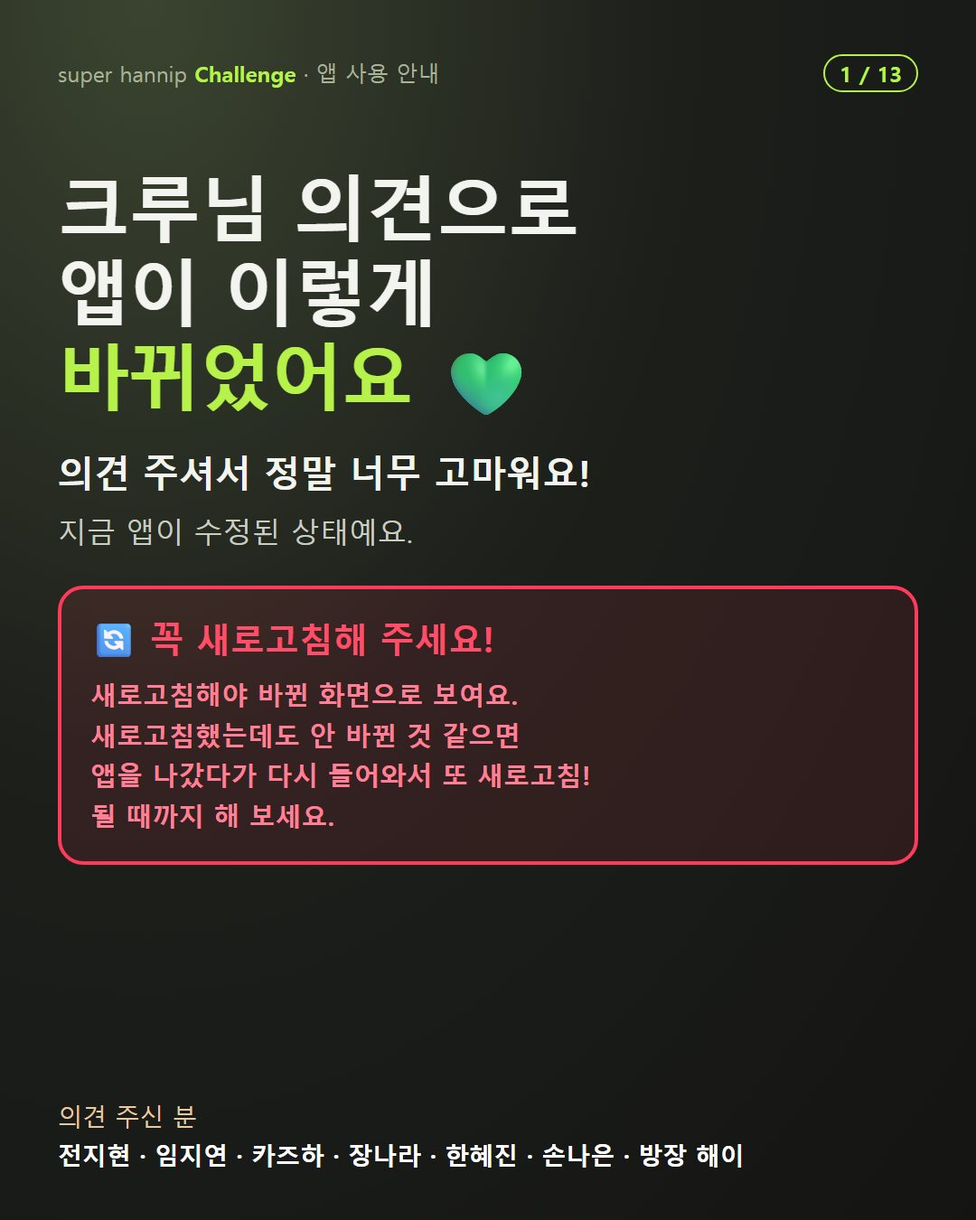
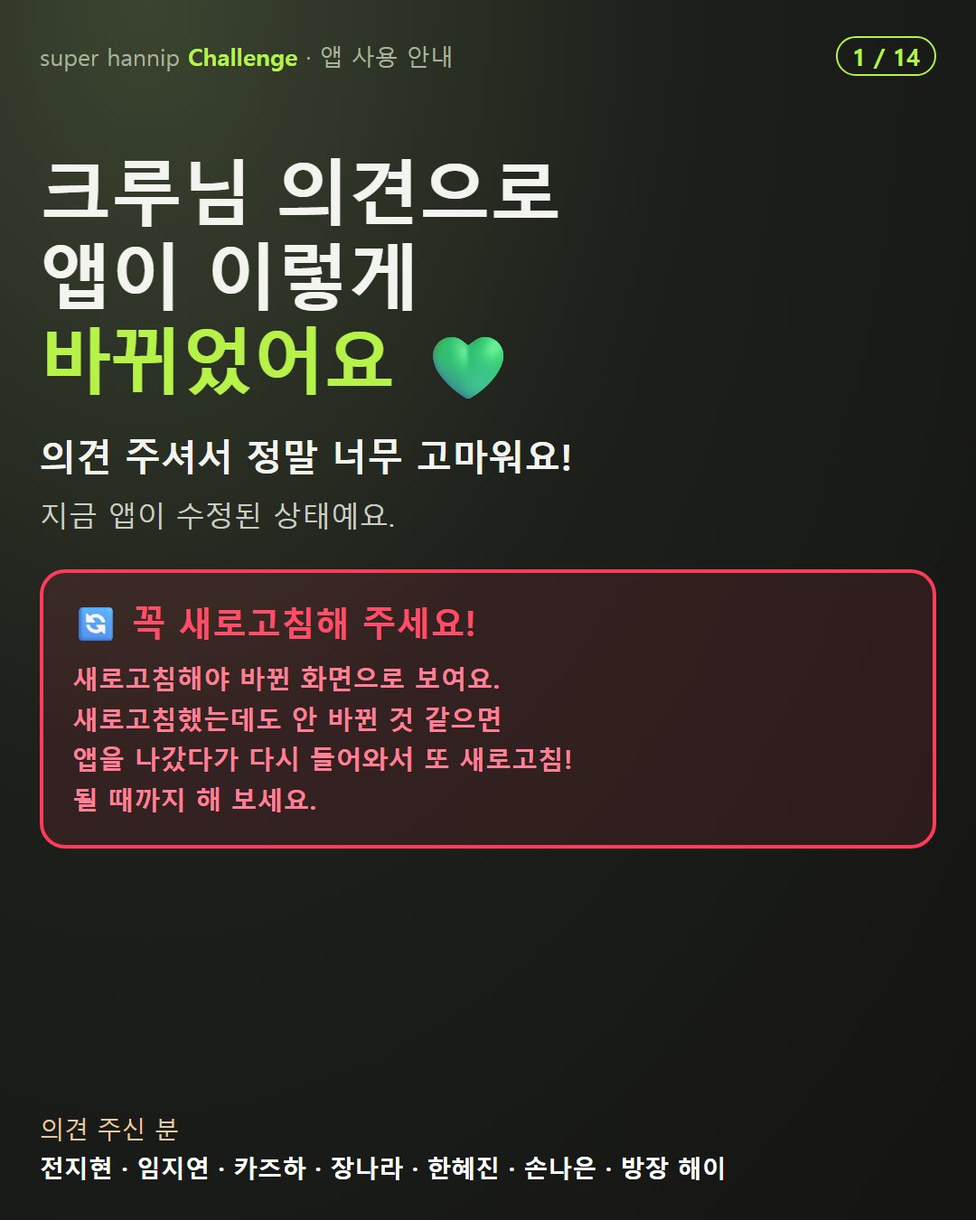
공지 사진 14장: 글씨 크게·여백 줄임, 크리스마스 테마 안내 추가

diff --git a/client/public/guide/index.html b/client/public/guide/index.html
@@ -60,10 +60,10 @@ video::cue{font-size:15px;background:rgba(0,0,0,.7)}
 .gal img{display:block;width:100%;border-radius:18px;margin-top:12px}
 </style></head><body><div class='wrap'><div class='page' id='p-home'><header><div class='ey'>SUPER HANNIP CHALLENGE</div><h1>앱 사용설명서</h1><p>보고 싶은 항목을 눌러 주세요.<br>다 보면 <b style='color:#b6f24a'>[← 뒤로 가기]</b>로 이 목록에 돌아와요.</p></header><div class='nu'><div class='nuh'>🆕 NEW UPDATE</div><div class='nubox'>
 <a class='bub' href='#v17_brag' data-id='v17_brag' data-date='2026-11-24'><span class='ring'><img src='poster/v17_brag.jpg' alt=''><i>🎬</i></span><span class='tag'>NEW</span><b>새 자랑하기</b><small>11/24</small></a>
-<a class='bub' href='#u1124' data-id='u1124' data-date='2026-11-24'><span class='ring'><img src='/notice/1124/01.jpg?v=3' alt=''><i>🖼</i></span><span class='tag'>NEW</span><b>크루 의견</b><small>11/24</small></a>
+<a class='bub' href='#u1124' data-id='u1124' data-date='2026-11-24'><span class='ring'><img src='/notice/1124/01.jpg?v=4' alt=''><i>🖼</i></span><span class='tag'>NEW</span><b>크루 의견</b><small>11/24</small></a>
 <a class='bub' href='#v15_meal_more' data-id='v15_meal_more' data-date='2026-11-23'><span class='ring'><img src='poster/v15_meal_more.jpg' alt=''><i>🎬</i></span><span class='tag'>NEW</span><b>식단 추가</b><small>11/23</small></a>
 <a class='bub' href='#v16_shop_more' data-id='v16_shop_more' data-date='2026-11-23'><span class='ring'><img src='poster/v16_shop_more.jpg' alt=''><i>🎬</i></span><span class='tag'>NEW</span><b>구매 추가</b><small>11/23</small></a>
-</div><p class='nuhint'>동그라미를 누르면 크게 볼 수 있어요 · <b>NEW</b>는 아직 안 본 것</p></div><div class='lh'>처음 시작할 때</div><div class='list'><a class='go' href='#signup'><span class='n'>1</span>👋 가입하기</a><a class='go' href='#profile'><span class='n'>2</span>📝 처음 정보 입력</a></div><div class='lh'>☰ 메뉴 사용법 (영상)</div><div class='list'><a class='go' href='#v01_menu'><span class='n'>1</span>메뉴 탭<span class='d'>0:39</span></a><a class='go' href='#v02_today'><span class='n'>2</span>오늘 탭<span class='d'>1:00</span></a><a class='go' href='#v03_sleep'><span class='n'>3</span>수면 인증<span class='d'>2:21</span></a><a class='go' href='#v04_meal'><span class='n'>4</span>식단 인증<span class='d'>0:52</span></a><a class='go' href='#v05_water'><span class='n'>5</span>물 인증<span class='d'>0:35</span></a><a class='go' href='#v06_exercise'><span class='n'>6</span>운동 인증<span class='d'>1:24</span></a><a class='go' href='#v07_weight'><span class='n'>7</span>체중 인증<span class='d'>1:11</span></a><a class='go' href='#v08_profile'><span class='n'>8</span>프로필 · 앱 꾸미기<span class='d'>1:02</span></a><a class='go' href='#v09_year'><span class='n'>9</span>1년<span class='d'>0:31</span></a><a class='go' href='#v10_itge'><span class='n'>10</span>이게돼 · 시상식<span class='d'>1:29</span></a><a class='go' href='#v11_change'><span class='n'>11</span>나의 변화 · 비포 애프터 · 멤버<span class='d'>0:46</span></a><a class='go' href='#v12_hof'><span class='n'>12</span>명예의 전당<span class='d'>0:43</span></a><a class='go' href='#v13_shop'><span class='n'>13</span>구매하기<span class='d'>1:20</span></a><a class='go' href='#v14_apply'><span class='n'>14</span>신청하기<span class='d'>1:36</span></a></div><footer>궁금한 건 앱의 <b>신청하기 → 의견 보내기</b>로 알려 주세요 💚<br>슈퍼한입 챌린지 · 나를 칭찬하는 순간, 우리 모두가 1등이 됩니다</footer></div><div class='page' id='p-signup'><div class='bar'><button type='button' class='back'>← 뒤로 가기</button></div><h2><span class='n'>1</span>👋 가입하기</h2><div class='vcard'><div class='vlabel'>🎬 영상으로 보기 <span>1:37</span></div><button type='button' class='vthumb mthumb' style="background-image:url('poster/signup_v.jpg')" data-src='vid/signup.mp4?v=2' data-sub='sub/signup.vtt?v=2'><span class='dim'></span><span class='play'></span><span class='tx'>눌러서 영상 보기</span></button></div></div><div class='page' id='p-profile'><div class='bar'><button type='button' class='back'>← 뒤로 가기</button></div><h2><span class='n'>2</span>📝 처음 정보 입력</h2><div class='vcard'><div class='vlabel'>🎬 영상으로 보기 <span>2:07</span></div><button type='button' class='vthumb mthumb' style="background-image:url('poster/profile_v.jpg')" data-src='vid/profile.mp4?v=2' data-sub='sub/profile.vtt?v=2'><span class='dim'></span><span class='play'></span><span class='tx'>눌러서 영상 보기</span></button></div></div><div class='page' id='p-v01_menu'><div class='bar'><button type='button' class='back'>← 뒤로 가기</button></div><div class='vcard mv' style='margin-top:8px'><div class='vlabel'><span style='color:#ececea;font-size:23px;font-weight:900'><i>1</i>메뉴 탭</span><span>0:39</span></div><button type='button' class='vthumb mthumb' style="background-image:url('poster/v01_menu.jpg')" data-src='vid/v01_menu.mp4' data-sub='sub/v01_menu.vtt'><span class='dim'></span><span class='play'></span><span class='tx'>눌러서 영상 보기</span></button></div></div><div class='page' id='p-v02_today'><div class='bar'><button type='button' class='back'>← 뒤로 가기</button></div><div class='vcard mv' style='margin-top:8px'><div class='vlabel'><span style='color:#ececea;font-size:23px;font-weight:900'><i>2</i>오늘 탭</span><span>1:00</span></div><button type='button' class='vthumb mthumb' style="background-image:url('poster/v02_today.jpg')" data-src='vid/v02_today.mp4' data-sub='sub/v02_today.vtt'><span class='dim'></span><span class='play'></span><span class='tx'>눌러서 영상 보기</span></button></div></div><div class='page' id='p-v03_sleep'><div class='bar'><button type='button' class='back'>← 뒤로 가기</button></div><div class='vcard mv' style='margin-top:8px'><div class='vlabel'><span style='color:#ececea;font-size:23px;font-weight:900'><i>3</i>수면 인증</span><span>2:21</span></div><button type='button' class='vthumb mthumb' style="background-image:url('poster/v03_sleep.jpg')" data-src='vid/v03_sleep.mp4' data-sub='sub/v03_sleep.vtt'><span class='dim'></span><span class='play'></span><span class='tx'>눌러서 영상 보기</span></button></div></div><div class='page' id='p-v04_meal'><div class='bar'><button type='button' class='back'>← 뒤로 가기</button></div><div class='vcard mv' style='margin-top:8px'><div class='vlabel'><span style='color:#ececea;font-size:23px;font-weight:900'><i>4</i>식단 인증</span><span>0:52</span></div><button type='button' class='vthumb mthumb' style="background-image:url('poster/v04_meal.jpg')" data-src='vid/v04_meal.mp4' data-sub='sub/v04_meal.vtt'><span class='dim'></span><span class='play'></span><span class='tx'>눌러서 영상 보기</span></button></div></div><div class='page' id='p-v05_water'><div class='bar'><button type='button' class='back'>← 뒤로 가기</button></div><div class='vcard mv' style='margin-top:8px'><div class='vlabel'><span style='color:#ececea;font-size:23px;font-weight:900'><i>5</i>물 인증</span><span>0:35</span></div><button type='button' class='vthumb mthumb' style="background-image:url('poster/v05_water.jpg')" data-src='vid/v05_water.mp4' data-sub='sub/v05_water.vtt'><span class='dim'></span><span class='play'></span><span class='tx'>눌러서 영상 보기</span></button></div></div><div class='page' id='p-v06_exercise'><div class='bar'><button type='button' class='back'>← 뒤로 가기</button></div><div class='vcard mv' style='margin-top:8px'><div class='vlabel'><span style='color:#ececea;font-size:23px;font-weight:900'><i>6</i>운동 인증</span><span>1:24</span></div><button type='button' class='vthumb mthumb' style="background-image:url('poster/v06_exercise.jpg')" data-src='vid/v06_exercise.mp4' data-sub='sub/v06_exercise.vtt'><span class='dim'></span><span class='play'></span><span class='tx'>눌러서 영상 보기</span></button></div></div><div class='page' id='p-v07_weight'><div class='bar'><button type='button' class='back'>← 뒤로 가기</button></div><div class='vcard mv' style='margin-top:8px'><div class='vlabel'><span style='color:#ececea;font-size:23px;font-weight:900'><i>7</i>체중 인증</span><span>1:11</span></div><button type='button' class='vthumb mthumb' style="background-image:url('poster/v07_weight.jpg')" data-src='vid/v07_weight.mp4' data-sub='sub/v07_weight.vtt'><span class='dim'></span><span class='play'></span><span class='tx'>눌러서 영상 보기</span></button></div></div><div class='page' id='p-v08_profile'><div class='bar'><button type='button' class='back'>← 뒤로 가기</button></div><div class='vcard mv' style='margin-top:8px'><div class='vlabel'><span style='color:#ececea;font-size:23px;font-weight:900'><i>8</i>프로필 · 앱 꾸미기</span><span>1:02</span></div><button type='button' class='vthumb mthumb' style="background-image:url('poster/v08_profile.jpg')" data-src='vid/v08_profile.mp4' data-sub='sub/v08_profile.vtt'><span class='dim'></span><span class='play'></span><span class='tx'>눌러서 영상 보기</span></button></div></div><div class='page' id='p-v09_year'><div class='bar'><button type='button' class='back'>← 뒤로 가기</button></div><div class='vcard mv' style='margin-top:8px'><div class='vlabel'><span style='color:#ececea;font-size:23px;font-weight:900'><i>9</i>1년</span><span>0:31</span></div><button type='button' class='vthumb mthumb' style="background-image:url('poster/v09_year.jpg')" data-src='vid/v09_year.mp4' data-sub='sub/v09_year.vtt'><span class='dim'></span><span class='play'></span><span class='tx'>눌러서 영상 보기</span></button></div></div><div class='page' id='p-v10_itge'><div class='bar'><button type='button' class='back'>← 뒤로 가기</button></div><div class='vcard mv' style='margin-top:8px'><div class='vlabel'><span style='color:#ececea;font-size:23px;font-weight:900'><i>10</i>이게돼 · 시상식</span><span>1:29</span></div><button type='button' class='vthumb mthumb' style="background-image:url('poster/v10_itge.jpg')" data-src='vid/v10_itge.mp4' data-sub='sub/v10_itge.vtt'><span class='dim'></span><span class='play'></span><span class='tx'>눌러서 영상 보기</span></button></div></div><div class='page' id='p-v11_change'><div class='bar'><button type='button' class='back'>← 뒤로 가기</button></div><div class='vcard mv' style='margin-top:8px'><div class='vlabel'><span style='color:#ececea;font-size:23px;font-weight:900'><i>11</i>나의 변화 · 비포 애프터 · 멤버</span><span>0:46</span></div><button type='button' class='vthumb mthumb' style="background-image:url('poster/v11_change.jpg')" data-src='vid/v11_change.mp4' data-sub='sub/v11_change.vtt'><span class='dim'></span><span class='play'></span><span class='tx'>눌러서 영상 보기</span></button></div></div><div class='page' id='p-v12_hof'><div class='bar'><button type='button' class='back'>← 뒤로 가기</button></div><div class='vcard mv' style='margin-top:8px'><div class='vlabel'><span style='color:#ececea;font-size:23px;font-weight:900'><i>12</i>명예의 전당</span><span>0:43</span></div><button type='button' class='vthumb mthumb' style="background-image:url('poster/v12_hof.jpg')" data-src='vid/v12_hof.mp4' data-sub='sub/v12_hof.vtt'><span class='dim'></span><span class='play'></span><span class='tx'>눌러서 영상 보기</span></button></div></div><div class='page' id='p-v13_shop'><div class='bar'><button type='button' class='back'>← 뒤로 가기</button></div><div class='vcard mv' style='margin-top:8px'><div class='vlabel'><span style='color:#ececea;font-size:23px;font-weight:900'><i>13</i>구매하기</span><span>1:20</span></div><button type='button' class='vthumb mthumb' style="background-image:url('poster/v13_shop.jpg')" data-src='vid/v13_shop.mp4' data-sub='sub/v13_shop.vtt'><span class='dim'></span><span class='play'></span><span class='tx'>눌러서 영상 보기</span></button></div></div><div class='page' id='p-v14_apply'><div class='bar'><button type='button' class='back'>← 뒤로 가기</button></div><div class='vcard mv' style='margin-top:8px'><div class='vlabel'><span style='color:#ececea;font-size:23px;font-weight:900'><i>14</i>신청하기</span><span>1:36</span></div><button type='button' class='vthumb mthumb' style="background-image:url('poster/v14_apply.jpg')" data-src='vid/v14_apply.mp4' data-sub='sub/v14_apply.vtt'><span class='dim'></span><span class='play'></span><span class='tx'>눌러서 영상 보기</span></button></div></div><div class='page' id='p-v15_meal_more'><div class='bar'><button type='button' class='back'>← 뒤로 가기</button></div><div class='vcard mv' style='margin-top:8px'><div class='vlabel'><span style='color:#ececea;font-size:23px;font-weight:900'><i>⭐</i>추가 내용 · 식단 인증</span><span>4:23</span></div><p style='margin:6px 2px 12px;color:#b6f24a;font-weight:800;font-size:17px'>식단 인증 추가 내용 있어요. 이거 꼭 보세요!</p><button type='button' class='vthumb mthumb' style="background-image:url('poster/v15_meal_more.jpg')" data-src='vid/v15_meal_more.mp4' data-sub='sub/v15_meal_more.vtt'><span class='dim'></span><span class='play'></span><span class='tx'>눌러서 영상 보기</span></button></div></div><div class='page' id='p-v16_shop_more'><div class='bar'><button type='button' class='back'>← 뒤로 가기</button></div><div class='vcard mv' style='margin-top:8px'><div class='vlabel'><span style='color:#ececea;font-size:23px;font-weight:900'><i>⭐</i>추가 내용 · 구매하기</span><span>1:38</span></div><p style='margin:6px 2px 12px;color:#b6f24a;font-weight:800;font-size:17px'>구매하기 추가 내용 있어요. 구매 전에 꼭 보세요!</p><button type='button' class='vthumb mthumb' style="background-image:url('poster/v16_shop_more.jpg')" data-src='vid/v16_shop_more.mp4' data-sub='sub/v16_shop_more.vtt'><span class='dim'></span><span class='play'></span><span class='tx'>눌러서 영상 보기</span></button></div></div><div class='page' id='p-v17_brag'><div class='bar'><button type='button' class='back'>← 뒤로 가기</button></div><div class='vcard mv' style='margin-top:8px'><div class='vlabel'><span style='color:#ececea;font-size:23px;font-weight:900'><i>⭐</i>추가 내용 · 새 자랑하기</span><span>1:23</span></div><p style='margin:6px 2px 12px;color:#b6f24a;font-weight:800;font-size:17px'>자랑하기를 누르면 저장부터! 깜빡하면 '자랑 전'에서 다시, 내 폰 저장, 글 붙여넣기까지 꼭 보세요!</p><button type='button' class='vthumb mthumb' style="background-image:url('poster/v17_brag.jpg')" data-src='vid/v17_brag.mp4' data-sub='sub/v17_brag.vtt'><span class='dim'></span><span class='play'></span><span class='tx'>눌러서 영상 보기</span></button></div></div><div class='page' id='p-u1124'><div class='bar'><button type='button' class='back'>← 뒤로 가기</button></div><h2>🖼 11월 24일 업데이트</h2><p style='color:#a6a9ae;font-size:14px;margin:4px 2px 0'>아래로 내리면서 한 장씩 봐 주세요.</p><div class='gal'><img src='/notice/1124/01.jpg?v=3' alt='업데이트 안내 2' loading='lazy'><img src='/notice/1124/02.jpg?v=3' alt='업데이트 안내 3' loading='lazy'><img src='/notice/1124/03.jpg?v=3' alt='업데이트 안내 4' loading='lazy'><img src='/notice/1124/04.jpg?v=3' alt='업데이트 안내 5' loading='lazy'><img src='/notice/1124/05.jpg?v=3' alt='업데이트 안내 6' loading='lazy'><img src='/notice/1124/06.jpg?v=3' alt='업데이트 안내 7' loading='lazy'><img src='/notice/1124/07.jpg?v=3' alt='업데이트 안내 8' loading='lazy'><img src='/notice/1124/08.jpg?v=3' alt='업데이트 안내 9' loading='lazy'><img src='/notice/1124/09.jpg?v=3' alt='업데이트 안내 10' loading='lazy'><img src='/notice/1124/10.jpg?v=3' alt='업데이트 안내 11' loading='lazy'><img src='/notice/1124/11.jpg?v=3' alt='업데이트 안내 12' loading='lazy'><img src='/notice/1124/12.jpg?v=3' alt='업데이트 안내 13' loading='lazy'><img src='/notice/1124/13.jpg?v=3' alt='업데이트 안내 14' loading='lazy'></div></div></div><script>
+</div><p class='nuhint'>동그라미를 누르면 크게 볼 수 있어요 · <b>NEW</b>는 아직 안 본 것</p></div><div class='lh'>처음 시작할 때</div><div class='list'><a class='go' href='#signup'><span class='n'>1</span>👋 가입하기</a><a class='go' href='#profile'><span class='n'>2</span>📝 처음 정보 입력</a></div><div class='lh'>☰ 메뉴 사용법 (영상)</div><div class='list'><a class='go' href='#v01_menu'><span class='n'>1</span>메뉴 탭<span class='d'>0:39</span></a><a class='go' href='#v02_today'><span class='n'>2</span>오늘 탭<span class='d'>1:00</span></a><a class='go' href='#v03_sleep'><span class='n'>3</span>수면 인증<span class='d'>2:21</span></a><a class='go' href='#v04_meal'><span class='n'>4</span>식단 인증<span class='d'>0:52</span></a><a class='go' href='#v05_water'><span class='n'>5</span>물 인증<span class='d'>0:35</span></a><a class='go' href='#v06_exercise'><span class='n'>6</span>운동 인증<span class='d'>1:24</span></a><a class='go' href='#v07_weight'><span class='n'>7</span>체중 인증<span class='d'>1:11</span></a><a class='go' href='#v08_profile'><span class='n'>8</span>프로필 · 앱 꾸미기<span class='d'>1:02</span></a><a class='go' href='#v09_year'><span class='n'>9</span>1년<span class='d'>0:31</span></a><a class='go' href='#v10_itge'><span class='n'>10</span>이게돼 · 시상식<span class='d'>1:29</span></a><a class='go' href='#v11_change'><span class='n'>11</span>나의 변화 · 비포 애프터 · 멤버<span class='d'>0:46</span></a><a class='go' href='#v12_hof'><span class='n'>12</span>명예의 전당<span class='d'>0:43</span></a><a class='go' href='#v13_shop'><span class='n'>13</span>구매하기<span class='d'>1:20</span></a><a class='go' href='#v14_apply'><span class='n'>14</span>신청하기<span class='d'>1:36</span></a></div><footer>궁금한 건 앱의 <b>신청하기 → 의견 보내기</b>로 알려 주세요 💚<br>슈퍼한입 챌린지 · 나를 칭찬하는 순간, 우리 모두가 1등이 됩니다</footer></div><div class='page' id='p-signup'><div class='bar'><button type='button' class='back'>← 뒤로 가기</button></div><h2><span class='n'>1</span>👋 가입하기</h2><div class='vcard'><div class='vlabel'>🎬 영상으로 보기 <span>1:37</span></div><button type='button' class='vthumb mthumb' style="background-image:url('poster/signup_v.jpg')" data-src='vid/signup.mp4?v=2' data-sub='sub/signup.vtt?v=2'><span class='dim'></span><span class='play'></span><span class='tx'>눌러서 영상 보기</span></button></div></div><div class='page' id='p-profile'><div class='bar'><button type='button' class='back'>← 뒤로 가기</button></div><h2><span class='n'>2</span>📝 처음 정보 입력</h2><div class='vcard'><div class='vlabel'>🎬 영상으로 보기 <span>2:07</span></div><button type='button' class='vthumb mthumb' style="background-image:url('poster/profile_v.jpg')" data-src='vid/profile.mp4?v=2' data-sub='sub/profile.vtt?v=2'><span class='dim'></span><span class='play'></span><span class='tx'>눌러서 영상 보기</span></button></div></div><div class='page' id='p-v01_menu'><div class='bar'><button type='button' class='back'>← 뒤로 가기</button></div><div class='vcard mv' style='margin-top:8px'><div class='vlabel'><span style='color:#ececea;font-size:23px;font-weight:900'><i>1</i>메뉴 탭</span><span>0:39</span></div><button type='button' class='vthumb mthumb' style="background-image:url('poster/v01_menu.jpg')" data-src='vid/v01_menu.mp4' data-sub='sub/v01_menu.vtt'><span class='dim'></span><span class='play'></span><span class='tx'>눌러서 영상 보기</span></button></div></div><div class='page' id='p-v02_today'><div class='bar'><button type='button' class='back'>← 뒤로 가기</button></div><div class='vcard mv' style='margin-top:8px'><div class='vlabel'><span style='color:#ececea;font-size:23px;font-weight:900'><i>2</i>오늘 탭</span><span>1:00</span></div><button type='button' class='vthumb mthumb' style="background-image:url('poster/v02_today.jpg')" data-src='vid/v02_today.mp4' data-sub='sub/v02_today.vtt'><span class='dim'></span><span class='play'></span><span class='tx'>눌러서 영상 보기</span></button></div></div><div class='page' id='p-v03_sleep'><div class='bar'><button type='button' class='back'>← 뒤로 가기</button></div><div class='vcard mv' style='margin-top:8px'><div class='vlabel'><span style='color:#ececea;font-size:23px;font-weight:900'><i>3</i>수면 인증</span><span>2:21</span></div><button type='button' class='vthumb mthumb' style="background-image:url('poster/v03_sleep.jpg')" data-src='vid/v03_sleep.mp4' data-sub='sub/v03_sleep.vtt'><span class='dim'></span><span class='play'></span><span class='tx'>눌러서 영상 보기</span></button></div></div><div class='page' id='p-v04_meal'><div class='bar'><button type='button' class='back'>← 뒤로 가기</button></div><div class='vcard mv' style='margin-top:8px'><div class='vlabel'><span style='color:#ececea;font-size:23px;font-weight:900'><i>4</i>식단 인증</span><span>0:52</span></div><button type='button' class='vthumb mthumb' style="background-image:url('poster/v04_meal.jpg')" data-src='vid/v04_meal.mp4' data-sub='sub/v04_meal.vtt'><span class='dim'></span><span class='play'></span><span class='tx'>눌러서 영상 보기</span></button></div></div><div class='page' id='p-v05_water'><div class='bar'><button type='button' class='back'>← 뒤로 가기</button></div><div class='vcard mv' style='margin-top:8px'><div class='vlabel'><span style='color:#ececea;font-size:23px;font-weight:900'><i>5</i>물 인증</span><span>0:35</span></div><button type='button' class='vthumb mthumb' style="background-image:url('poster/v05_water.jpg')" data-src='vid/v05_water.mp4' data-sub='sub/v05_water.vtt'><span class='dim'></span><span class='play'></span><span class='tx'>눌러서 영상 보기</span></button></div></div><div class='page' id='p-v06_exercise'><div class='bar'><button type='button' class='back'>← 뒤로 가기</button></div><div class='vcard mv' style='margin-top:8px'><div class='vlabel'><span style='color:#ececea;font-size:23px;font-weight:900'><i>6</i>운동 인증</span><span>1:24</span></div><button type='button' class='vthumb mthumb' style="background-image:url('poster/v06_exercise.jpg')" data-src='vid/v06_exercise.mp4' data-sub='sub/v06_exercise.vtt'><span class='dim'></span><span class='play'></span><span class='tx'>눌러서 영상 보기</span></button></div></div><div class='page' id='p-v07_weight'><div class='bar'><button type='button' class='back'>← 뒤로 가기</button></div><div class='vcard mv' style='margin-top:8px'><div class='vlabel'><span style='color:#ececea;font-size:23px;font-weight:900'><i>7</i>체중 인증</span><span>1:11</span></div><button type='button' class='vthumb mthumb' style="background-image:url('poster/v07_weight.jpg')" data-src='vid/v07_weight.mp4' data-sub='sub/v07_weight.vtt'><span class='dim'></span><span class='play'></span><span class='tx'>눌러서 영상 보기</span></button></div></div><div class='page' id='p-v08_profile'><div class='bar'><button type='button' class='back'>← 뒤로 가기</button></div><div class='vcard mv' style='margin-top:8px'><div class='vlabel'><span style='color:#ececea;font-size:23px;font-weight:900'><i>8</i>프로필 · 앱 꾸미기</span><span>1:02</span></div><button type='button' class='vthumb mthumb' style="background-image:url('poster/v08_profile.jpg')" data-src='vid/v08_profile.mp4' data-sub='sub/v08_profile.vtt'><span class='dim'></span><span class='play'></span><span class='tx'>눌러서 영상 보기</span></button></div></div><div class='page' id='p-v09_year'><div class='bar'><button type='button' class='back'>← 뒤로 가기</button></div><div class='vcard mv' style='margin-top:8px'><div class='vlabel'><span style='color:#ececea;font-size:23px;font-weight:900'><i>9</i>1년</span><span>0:31</span></div><button type='button' class='vthumb mthumb' style="background-image:url('poster/v09_year.jpg')" data-src='vid/v09_year.mp4' data-sub='sub/v09_year.vtt'><span class='dim'></span><span class='play'></span><span class='tx'>눌러서 영상 보기</span></button></div></div><div class='page' id='p-v10_itge'><div class='bar'><button type='button' class='back'>← 뒤로 가기</button></div><div class='vcard mv' style='margin-top:8px'><div class='vlabel'><span style='color:#ececea;font-size:23px;font-weight:900'><i>10</i>이게돼 · 시상식</span><span>1:29</span></div><button type='button' class='vthumb mthumb' style="background-image:url('poster/v10_itge.jpg')" data-src='vid/v10_itge.mp4' data-sub='sub/v10_itge.vtt'><span class='dim'></span><span class='play'></span><span class='tx'>눌러서 영상 보기</span></button></div></div><div class='page' id='p-v11_change'><div class='bar'><button type='button' class='back'>← 뒤로 가기</button></div><div class='vcard mv' style='margin-top:8px'><div class='vlabel'><span style='color:#ececea;font-size:23px;font-weight:900'><i>11</i>나의 변화 · 비포 애프터 · 멤버</span><span>0:46</span></div><button type='button' class='vthumb mthumb' style="background-image:url('poster/v11_change.jpg')" data-src='vid/v11_change.mp4' data-sub='sub/v11_change.vtt'><span class='dim'></span><span class='play'></span><span class='tx'>눌러서 영상 보기</span></button></div></div><div class='page' id='p-v12_hof'><div class='bar'><button type='button' class='back'>← 뒤로 가기</button></div><div class='vcard mv' style='margin-top:8px'><div class='vlabel'><span style='color:#ececea;font-size:23px;font-weight:900'><i>12</i>명예의 전당</span><span>0:43</span></div><button type='button' class='vthumb mthumb' style="background-image:url('poster/v12_hof.jpg')" data-src='vid/v12_hof.mp4' data-sub='sub/v12_hof.vtt'><span class='dim'></span><span class='play'></span><span class='tx'>눌러서 영상 보기</span></button></div></div><div class='page' id='p-v13_shop'><div class='bar'><button type='button' class='back'>← 뒤로 가기</button></div><div class='vcard mv' style='margin-top:8px'><div class='vlabel'><span style='color:#ececea;font-size:23px;font-weight:900'><i>13</i>구매하기</span><span>1:20</span></div><button type='button' class='vthumb mthumb' style="background-image:url('poster/v13_shop.jpg')" data-src='vid/v13_shop.mp4' data-sub='sub/v13_shop.vtt'><span class='dim'></span><span class='play'></span><span class='tx'>눌러서 영상 보기</span></button></div></div><div class='page' id='p-v14_apply'><div class='bar'><button type='button' class='back'>← 뒤로 가기</button></div><div class='vcard mv' style='margin-top:8px'><div class='vlabel'><span style='color:#ececea;font-size:23px;font-weight:900'><i>14</i>신청하기</span><span>1:36</span></div><button type='button' class='vthumb mthumb' style="background-image:url('poster/v14_apply.jpg')" data-src='vid/v14_apply.mp4' data-sub='sub/v14_apply.vtt'><span class='dim'></span><span class='play'></span><span class='tx'>눌러서 영상 보기</span></button></div></div><div class='page' id='p-v15_meal_more'><div class='bar'><button type='button' class='back'>← 뒤로 가기</button></div><div class='vcard mv' style='margin-top:8px'><div class='vlabel'><span style='color:#ececea;font-size:23px;font-weight:900'><i>⭐</i>추가 내용 · 식단 인증</span><span>4:23</span></div><p style='margin:6px 2px 12px;color:#b6f24a;font-weight:800;font-size:17px'>식단 인증 추가 내용 있어요. 이거 꼭 보세요!</p><button type='button' class='vthumb mthumb' style="background-image:url('poster/v15_meal_more.jpg')" data-src='vid/v15_meal_more.mp4' data-sub='sub/v15_meal_more.vtt'><span class='dim'></span><span class='play'></span><span class='tx'>눌러서 영상 보기</span></button></div></div><div class='page' id='p-v16_shop_more'><div class='bar'><button type='button' class='back'>← 뒤로 가기</button></div><div class='vcard mv' style='margin-top:8px'><div class='vlabel'><span style='color:#ececea;font-size:23px;font-weight:900'><i>⭐</i>추가 내용 · 구매하기</span><span>1:38</span></div><p style='margin:6px 2px 12px;color:#b6f24a;font-weight:800;font-size:17px'>구매하기 추가 내용 있어요. 구매 전에 꼭 보세요!</p><button type='button' class='vthumb mthumb' style="background-image:url('poster/v16_shop_more.jpg')" data-src='vid/v16_shop_more.mp4' data-sub='sub/v16_shop_more.vtt'><span class='dim'></span><span class='play'></span><span class='tx'>눌러서 영상 보기</span></button></div></div><div class='page' id='p-v17_brag'><div class='bar'><button type='button' class='back'>← 뒤로 가기</button></div><div class='vcard mv' style='margin-top:8px'><div class='vlabel'><span style='color:#ececea;font-size:23px;font-weight:900'><i>⭐</i>추가 내용 · 새 자랑하기</span><span>1:23</span></div><p style='margin:6px 2px 12px;color:#b6f24a;font-weight:800;font-size:17px'>자랑하기를 누르면 저장부터! 깜빡하면 '자랑 전'에서 다시, 내 폰 저장, 글 붙여넣기까지 꼭 보세요!</p><button type='button' class='vthumb mthumb' style="background-image:url('poster/v17_brag.jpg')" data-src='vid/v17_brag.mp4' data-sub='sub/v17_brag.vtt'><span class='dim'></span><span class='play'></span><span class='tx'>눌러서 영상 보기</span></button></div></div><div class='page' id='p-u1124'><div class='bar'><button type='button' class='back'>← 뒤로 가기</button></div><h2>🖼 11월 24일 업데이트</h2><p style='color:#a6a9ae;font-size:14px;margin:4px 2px 0'>아래로 내리면서 한 장씩 봐 주세요.</p><div class='gal'><img src='/notice/1124/01.jpg?v=4' alt='업데이트 안내 2' loading='lazy'><img src='/notice/1124/02.jpg?v=4' alt='업데이트 안내 3' loading='lazy'><img src='/notice/1124/03.jpg?v=4' alt='업데이트 안내 4' loading='lazy'><img src='/notice/1124/04.jpg?v=4' alt='업데이트 안내 5' loading='lazy'><img src='/notice/1124/05.jpg?v=4' alt='업데이트 안내 6' loading='lazy'><img src='/notice/1124/06.jpg?v=4' alt='업데이트 안내 7' loading='lazy'><img src='/notice/1124/07.jpg?v=4' alt='업데이트 안내 8' loading='lazy'><img src='/notice/1124/08.jpg?v=4' alt='업데이트 안내 9' loading='lazy'><img src='/notice/1124/09.jpg?v=4' alt='업데이트 안내 10' loading='lazy'><img src='/notice/1124/10.jpg?v=4' alt='업데이트 안내 11' loading='lazy'><img src='/notice/1124/11.jpg?v=4' alt='업데이트 안내 12' loading='lazy'><img src='/notice/1124/12.jpg?v=4' alt='업데이트 안내 13' loading='lazy'><img src='/notice/1124/13.jpg?v=4' alt='업데이트 안내 14' loading='lazy'><img src='/notice/1124/14.jpg?v=4' alt='업데이트 안내 15' loading='lazy'></div></div></div><script>
 function mk(t){const v=document.createElement('video');v.controls=true;v.playsInline=true;v.src=t.dataset.src;
  if(t.dataset.sub){const tr=document.createElement('track');tr.kind='subtitles';tr.srclang='ko';tr.label='한국어';tr.src=t.dataset.sub;tr.default=true;v.appendChild(tr)}
  v._t=t;t.replaceWith(v);v.play().catch(()=>{});}

diff --git a/client/src/lib/notices.ts b/client/src/lib/notices.ts
@@ -11,7 +11,7 @@ export type Notice = {
 };
 
 // 00.jpg(인증 멈추고 새로고침)는 빼고 01~12만 — 팝업이 떴다면 이미 새로고침된 것 (2026-11-24 해이)
-const n1124 = Array.from({ length: 13 }, (_, i) => `/notice/1124/${String(i + 1).padStart(2, "0")}.jpg?v=3`); // 사진을 바꾸면 v 숫자를 올린다(옛 사진이 남지 않게)
+const n1124 = Array.from({ length: 14 }, (_, i) => `/notice/1124/${String(i + 1).padStart(2, "0")}.jpg?v=4`); // 사진을 바꾸면 v 숫자를 올린다(옛 사진이 남지 않게)
 
 export const NOTICES: Notice[] = [
   {
